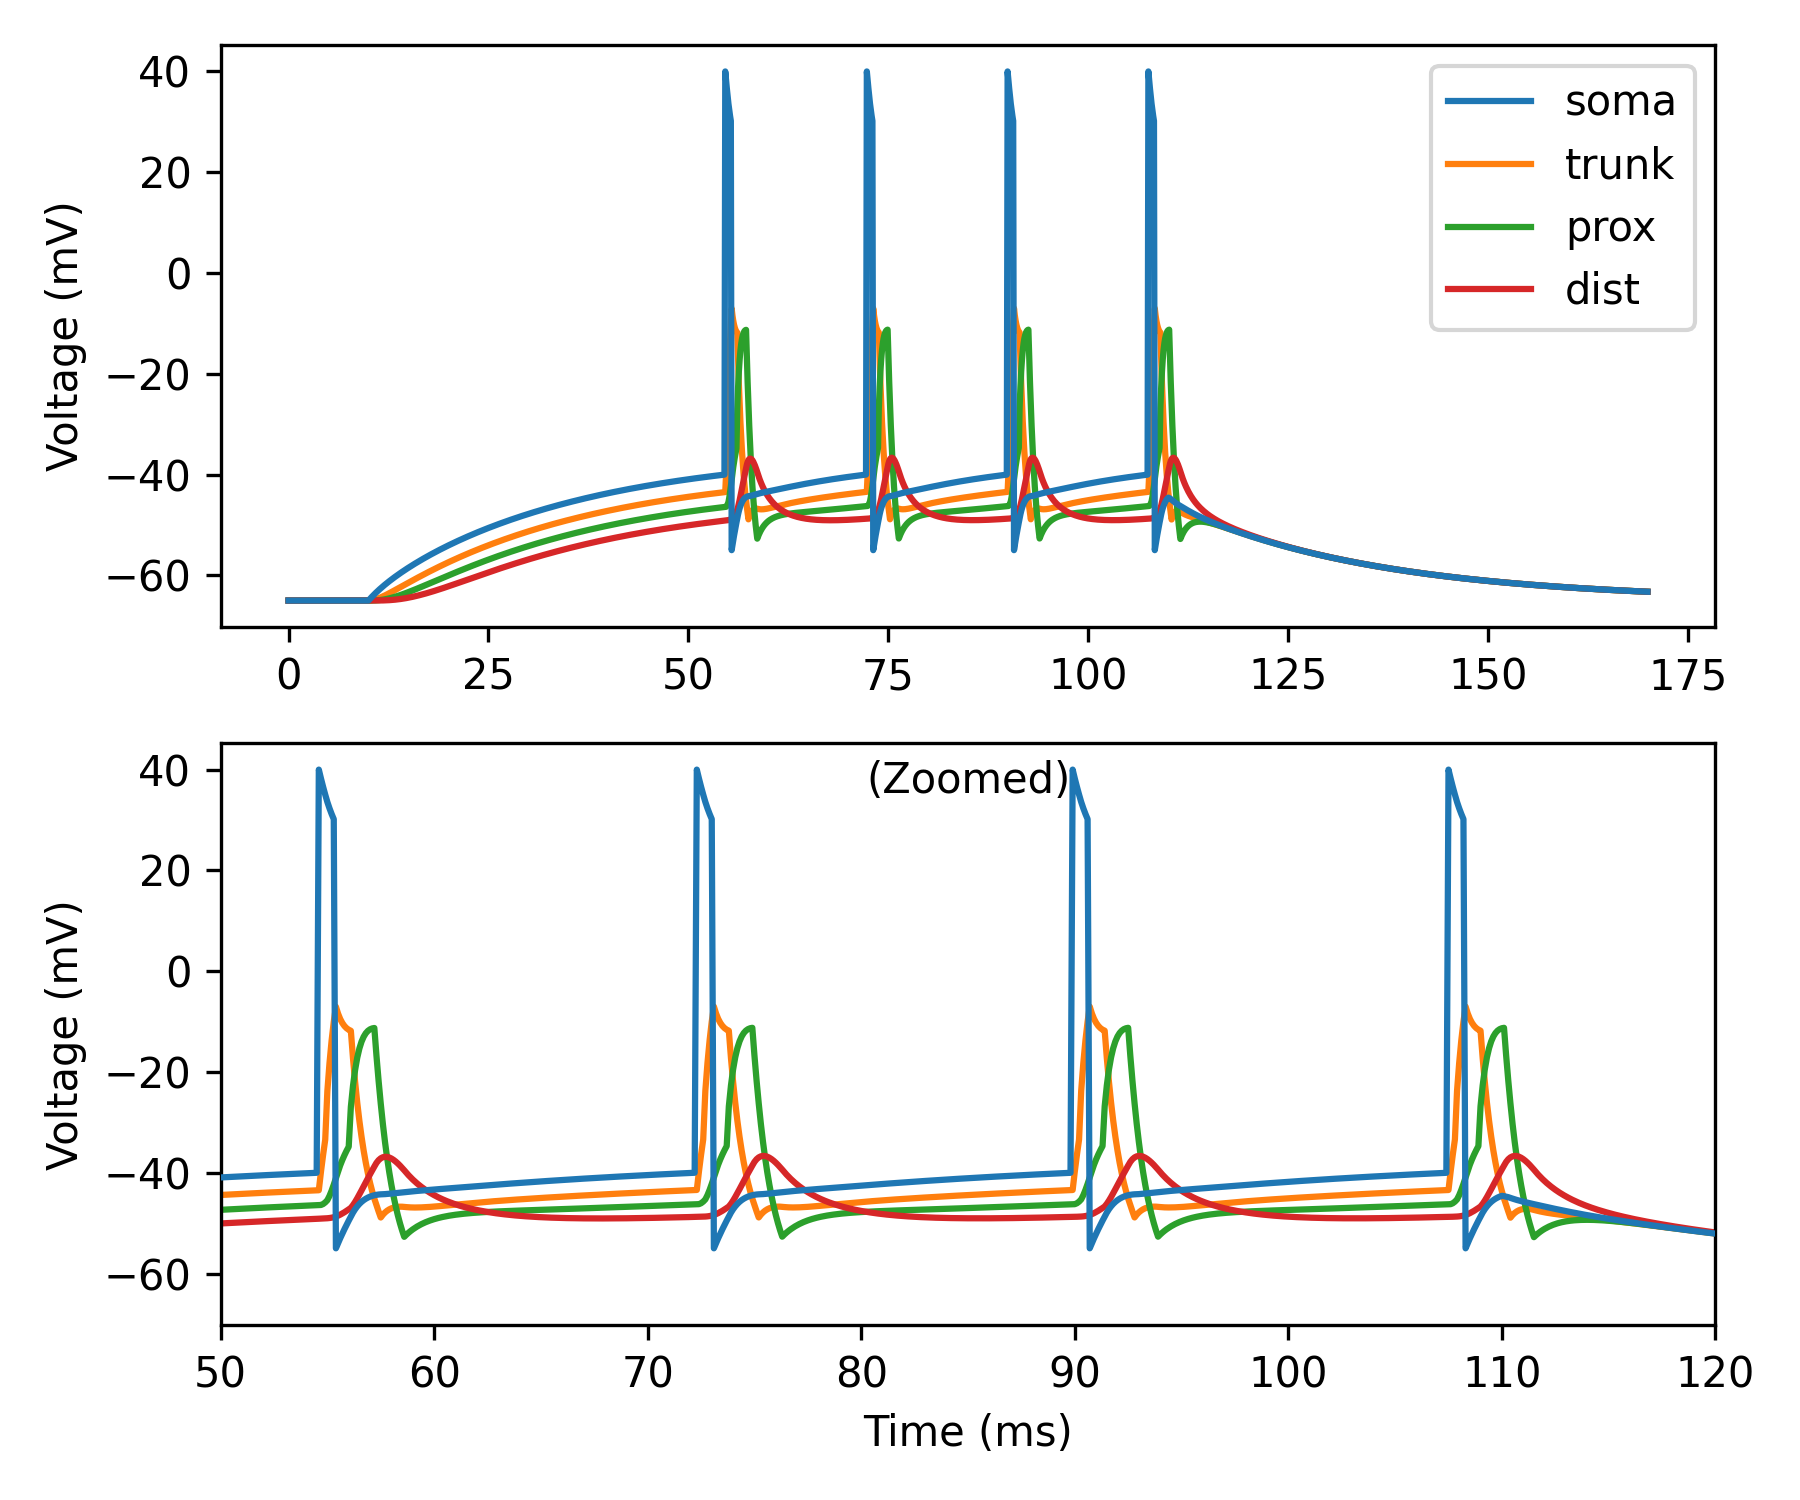
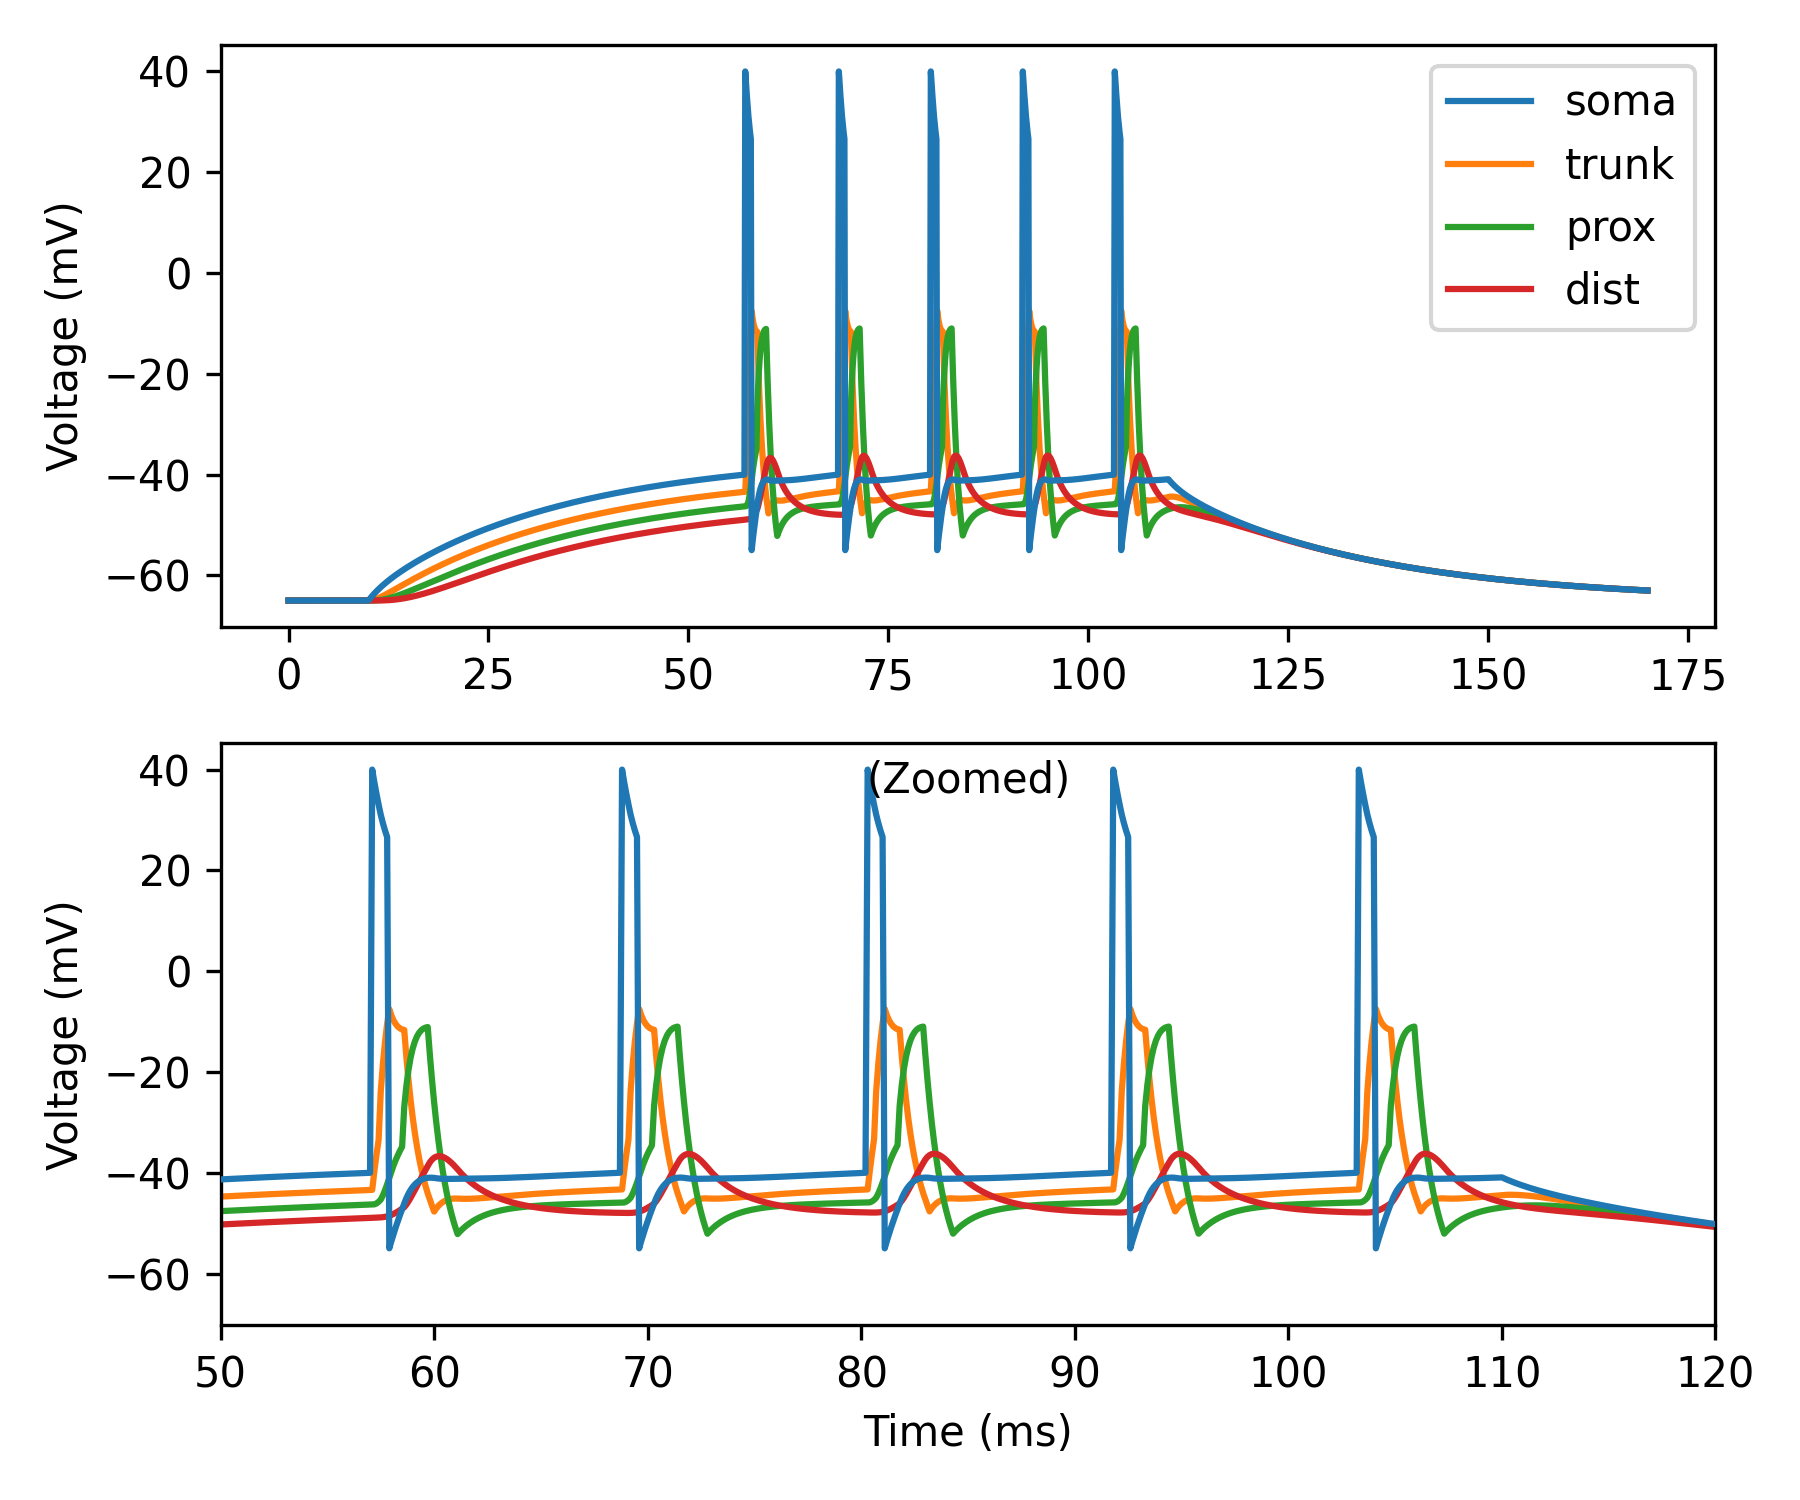
Hopefully RTD works (#36)
* Fixed a bug that caused an error when multiple different types were created

* Updated the backprop example

* Minor changes to prepare for new release

* Minor change

* Version changes

* Minor changes

* Hopefullt fixed version system

* Updated changelog

* Trying to fix RTD errors

* Grrr

* grrrrrr

* Fixed bugs with RTD not allowing RTD to build

Changed region(s): [[0.1244, 0.5213, 0.9644, 0.828], [0.28, 0.0307, 0.9022, 0.3987], [0.2178, 0.368, 0.28, 0.3987]]

diff --git a/dendrify/neuronmodel.py b/dendrify/neuronmodel.py
@@ -284,15 +284,16 @@ class NeuronModel:
         for comp in self._compartments:
             if isinstance(comp, Dendrite) and comp._dspike_params:
                 event_id = f"{event_name}_{comp.name}"
-                dt = defaultclock.dt
-                d = {f"Vth_{event_id}": threshold,
-                     f"duration_rise_{event_id}": comp._timestep(duration_rise, dt),
-                     f"duration_fall_{event_id}": comp._timestep(duration_fall, dt),
-                     f"E_rise_{event_name}": comp._ionic_param(reversal_rise),
-                     f"E_fall_{event_name}": comp._ionic_param(reversal_fall),
-                     f"offset_fall_{event_id}": comp._timestep(offset_fall, dt),
-                     f"refractory_{event_id}": comp._timestep(refractory, dt)}
-                comp._dspike_params[event_id].update(d)
+                if event_id in comp._dspike_params:
+                    dt = defaultclock.dt
+                    d = {f"Vth_{event_id}": threshold,
+                        f"duration_rise_{event_id}": comp._timestep(duration_rise, dt),
+                        f"duration_fall_{event_id}": comp._timestep(duration_fall, dt),
+                        f"E_rise_{event_name}": comp._ionic_param(reversal_rise),
+                        f"E_fall_{event_name}": comp._ionic_param(reversal_fall),
+                        f"offset_fall_{event_id}": comp._timestep(offset_fall, dt),
+                        f"refractory_{event_id}": comp._timestep(refractory, dt)}
+                    comp._dspike_params[event_id].update(d)
 
     def make_neurongroup(self,
                          N: int,

diff --git a/docs_sphinx/source/conf.py b/docs_sphinx/source/conf.py
@@ -3,17 +3,22 @@
 # For the full list of built-in configuration values, see the documentation:
 # https://www.sphinx-doc.org/en/master/usage/configuration.html
 
-import os
-import sys
+import os, sys
 
 sys.path.insert(0, os.path.abspath('../..'))
 sys.path.insert(0, os.path.abspath('../../..'))
+
+
 
 # -- Project information -------------------------------------------------------
 project = 'Dendrify'
 copyright = '2024, Michalis Pagkalos'
 author = 'Michalis Pagkalos'
-release = '2.1.3'
+release = '2.1.4'
+# release = re.search(
+#     r'__version__\s*=\s*[\'"]([^\'"]*)[\'"]',
+#     io.open('dendrify/__init__.py', encoding='utf_8_sig').read()
+#     ).group(1)
 
 
 # -- General configuration -----------------------------------------------------

diff --git a/setup.py b/setup.py
@@ -1,6 +1,6 @@
 from setuptools import find_packages, setup
+VERSION = '2.1.4'
 
-VERSION = '2.1.3'
 DESCRIPTION = 'A package for adding dendrites to SNNs'
 with open("README.rst") as f:
     LONG_DESCRIPTION = f.read()
@@ -15,7 +15,7 @@ setup(
     long_description_content_type="text/x-rst; charset=UTF-8",
     long_description=LONG_DESCRIPTION,
     packages=find_packages(),
-    install_requires=['brian2==2.6.0'],
+    install_requires=['brian2==2.7.0'],
     keywords=['python', 'brian2', 'dendrites', 'SNNs', 'network models'],
     classifiers=[
         "Development Status :: 5 - Production/Stable",

diff --git a/dendrify/__init__.py b/dendrify/__init__.py
@@ -3,3 +3,7 @@ from .ephysproperties import (EphysProperties, default_params,
                               update_default_params)
 from .equations import library
 from .neuronmodel import NeuronModel, PointNeuronModel
+
+__version__ = '2.1.4'
+__author__ = 'Michalis Pagkalos'
+__email__ = 'mpagkalos93@gmail.com'

diff --git a/examples_new/comp_backprop.py b/examples_new/comp_backprop.py
@@ -75,7 +75,7 @@ M = b.StateMonitor(neuron, vars, record=True)
 # Run simulation
 net = b.Network(neuron, ap_reset, M)
 net.run(10*ms)
-neuron.I_ext_soma = 150*pA
+neuron.I_ext_soma = 115*pA
 net.run(100*ms)
 neuron.I_ext_soma = 0*pA
 net.run(60*ms)

diff --git a/docs_sphinx/source/changelog.rst b/docs_sphinx/source/changelog.rst
@@ -1,6 +1,15 @@
 Release notes
 =============
 
+Version 2.1.4
+-------------
+    * Fixed a bug that raised an error when config_dspikes was called multiple times
+      to configure different dSpike types. Thank you Tim Bax for discovering and
+      reporting this issue.
+    * Checked compatibility with Brian 2.7.0.
+    * Added package metadata (e.g. dendrify.__version__ works now).
+    * Minor documentation improvements.
+
 Version 2.1.3
 -------------
     * Changed package requirements to fix installation conflicts with Brian 2.6.0.

diff --git a/docs_sphinx/source/examples/comp_backprop.rst b/docs_sphinx/source/examples/comp_backprop.rst
@@ -74,7 +74,7 @@ In this example we show:
     # Run simulation
     net = b.Network(neuron, ap_reset, M)
     net.run(10*ms)
-    neuron.I_ext_soma = 150*pA
+    neuron.I_ext_soma = 115*pA
     net.run(100*ms)
     neuron.I_ext_soma = 0*pA
     net.run(60*ms)
